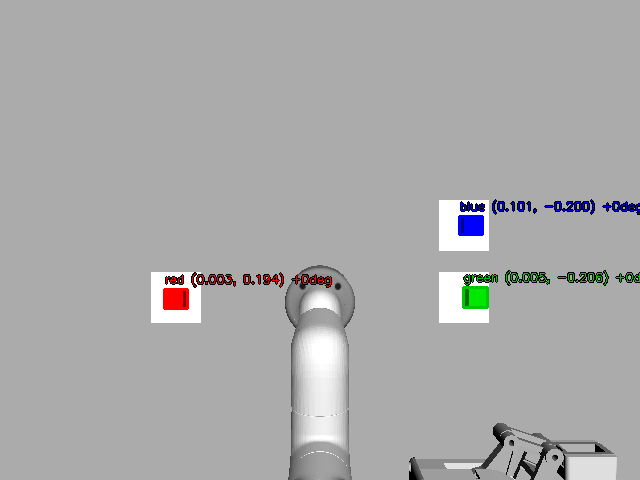
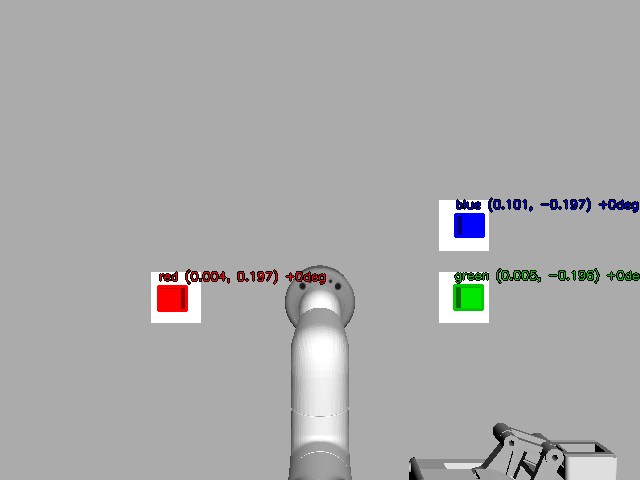
Grasp cubes at the fingertip pads and keep the hand above the floor
The grasp point was derived from the finger pivot positions, so cubes
ended up inside the linkage and the finger pads were driven about 35 mm
below the ground. Measured the real pad geometry in Gazebo and:
- moved the grasp point to the centre of the closed pads
  (tcp_offset 0, 8, 102 mm in the flange frame)
- enlarged the cubes to 30 mm: the pads only close to about 29 mm
- attached a collision box covering the whole hand to the flange in
  MoveIt's planning scene, so plans keep the pads above the floor
- refreshed the README figures

Changed region(s): [[0.6875, 0.4062, 1.0, 0.5], [0.6875, 0.5625, 1.0, 0.6562], [0.2188, 0.5625, 0.5312, 0.6562]]

diff --git a/mycobot_280/mycobot_280_vision_pick/scripts/pick_place.py b/mycobot_280/mycobot_280_vision_pick/scripts/pick_place.py
@@ -27,28 +27,40 @@ class PickPlace:
         self.arm.set_planning_time(5.0)
         self.arm.set_num_planning_attempts(5)
 
-        # Grasp point (between the finger pads) in the joint6_flange frame. Calibration knob.
-        # y = +16 mm: the finger pads are offset from the flange axis, and at y = 0 the inner
-        # linkage pivots (gripper_left2/right2, z = 61 mm) collide with the cube and shove it away.
-        self.tcp = np.array(rospy.get_param("~tcp_offset", [0.0, 0.016, 0.058]))
-        self.cube_size = rospy.get_param("~cube_size", 0.025)
+        # Grasp point = centre of the two finger pads when closed, in the joint6_flange frame.
+        # Measured in Gazebo: the pads hang 88-115 mm below the flange and sit 8 mm off its axis.
+        # Calibration knob: re-measure for a different gripper.
+        self.tcp = np.array(rospy.get_param("~tcp_offset", [0.0, 0.008, 0.102]))
+        self.cube_size = rospy.get_param("~cube_size", 0.03)
         self.approach = rospy.get_param("~approach_height", 0.06)
         self.grip_open = rospy.get_param("~gripper_open", 0.1)
-        self.grip_closed = rospy.get_param("~gripper_closed", -0.25)
+        self.grip_closed = rospy.get_param("~gripper_closed", -0.45)  # pad gap ~30 mm
         self.observe_joints = rospy.get_param("~observe_joints", [-1.57, 0.0, 0.0, 0.0, 0.0, 0.0])
         self.pads = rospy.get_param("~pads", {"red": [0.0, 0.20], "green": [0.0, -0.20], "blue": [0.10, -0.20]})
 
         self.attach_pub = rospy.Publisher("vision_pick/attach", String, queue_size=1)
-        self.add_ground()
+        self.add_collision_objects()
 
-    def add_ground(self):
-        """Tell MoveIt where the floor is, otherwise the planner happily routes the arm through it."""
+    def add_collision_objects(self):
+        """Tell MoveIt about the floor and the real size of the hand.
+
+        Without the floor the planner routes the arm through it. The upstream model gives
+        the gripper only tiny collision cylinders, so a box covering the whole hand
+        (down to the finger pads) is attached to the flange as well.
+        """
         scene = moveit_commander.PlanningSceneInterface(synchronous=True)
         ground = PoseStamped()
         ground.header.frame_id = self.arm.get_planning_frame()
         ground.pose.orientation.w = 1.0
         ground.pose.position.z = -0.011  # 2 cm slab, top 1 mm below z = 0 so the robot base is not "in collision"
         scene.add_box("ground", ground, size=(2.0, 2.0, 0.02))
+
+        hand = PoseStamped()
+        hand.header.frame_id = "joint6_flange"
+        hand.pose.orientation.w = 1.0
+        hand.pose.position.z = 0.0675  # box spans 20-115 mm below the flange
+        touch = moveit_commander.RobotCommander().get_link_names(group="gripper") + ["joint6_flange", "joint6"]
+        scene.attach_box("joint6_flange", "hand", hand, size=(0.10, 0.04, 0.095), touch_links=touch)
 
     # ---------- motion helpers ----------
     def flange_pose(self, x, y, z, yaw):

diff --git a/mycobot_280/mycobot_280_vision_pick/scripts/cube_detector.py b/mycobot_280/mycobot_280_vision_pick/scripts/cube_detector.py
@@ -34,7 +34,7 @@ RGBA = {"red": (1, 0, 0), "green": (0, 1, 0), "blue": (0, 0, 1)}
 
 class CubeDetector:
     def __init__(self):
-        self.cube_size = rospy.get_param("~cube_size", 0.025)
+        self.cube_size = rospy.get_param("~cube_size", 0.03)
         self.min_area = rospy.get_param("~min_area_px", 60)
         self.world_frame = rospy.get_param("~world_frame", "world")
         self.bridge = CvBridge()

diff --git a/mycobot_280/mycobot_280_vision_pick/README.md b/mycobot_280/mycobot_280_vision_pick/README.md
@@ -69,6 +69,14 @@ move above its pad → straight down → detach → open → lift. Free-space mo
 planned with OMPL; approach and retreat use Cartesian straight-line paths. Before
 reading the camera the arm swings behind its base so it does not block the view.
 
+The floor and a box covering the whole hand are added to MoveIt's planning scene, so
+planned motions keep the gripper above the ground (the upstream model only has tiny
+collision cylinders on the gripper).
+
+The grasp point was measured in Gazebo: the finger pads hang 88-115 mm below the
+flange, 8 mm off its axis, and close to a gap of about 29 mm. That is why the cubes
+are 30 mm wide: this gripper cannot pinch anything narrower.
+
 ### 3. Grasping (`src/gripper_attach_plugin.cpp`)
 
 The gripper's collision shapes in the upstream model are tiny cylinders, so a pure
@@ -94,8 +102,8 @@ Parameters of `pick_place.py` (private ROS params):
 
 | Parameter | Default | Meaning |
 |---|---|---|
-| `tcp_offset` | `[0, 0.016, 0.058]` | Grasp point in the `joint6_flange` frame (m) |
-| `gripper_open` / `gripper_closed` | `0.1` / `-0.25` | `gripper_controller` joint values (rad) |
+| `tcp_offset` | `[0, 0.008, 0.102]` | Grasp point (centre of the closed finger pads) in the `joint6_flange` frame (m) |
+| `gripper_open` / `gripper_closed` | `0.1` / `-0.45` | `gripper_controller` joint values (rad) |
 | `approach_height` | `0.06` | Height above the cube for approach/retreat (m) |
 | `pads` | red `[0, 0.2]`, green `[0, -0.2]`, blue `[0.1, -0.2]` | Drop-off positions (m) |
 | `observe_joints` | `[-1.57, 0, 0, 0, 0, 0]` | Arm pose used while the camera looks at the table |
